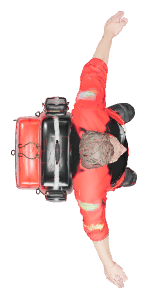
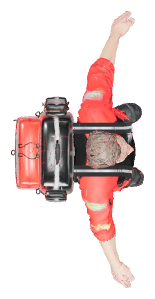
Models: the backpack's straps over the doctor's shoulders
The pack's own straps lie flat on its back panel, so the compose script
grows two of its own with --straps: black webbing with a reflective band,
up out of the pack, over each shoulder and down the chest, ending at the
lower ribs. The path is found on the person by casting rays at his mesh
round the shoulder and down the front, so the straps lie on the body. The
pack also sits 3 cm further back, off his shoulder blades. Sprite
re-rendered.

Claude-Session: https://claude.ai/code/session_013iwZva4Kut6Ah5PPacWNfi

diff --git a/src/app/dashboard/vector/scene/model-sprites.ts b/src/app/dashboard/vector/scene/model-sprites.ts
@@ -10,7 +10,7 @@ export const MODEL_SPRITES = {
   firefighter_run: { href: "/models/firefighter_run.png", w: 1.281, h: 0.803, frames: 16, fps: 24, cols: 16 }, // 
   firefighter_stand: { href: "/models/firefighter_stand.png", w: 1.036, h: 0.725, frames: 1, fps: 0.96, cols: 1 }, // 
   firefighter_walk: { href: "/models/firefighter_walk.png", w: 1.108, h: 0.788, frames: 20, fps: 19.2, cols: 20 }, // 
-  hems_doctor: { href: "/models/hems_doctor.png", w: 0.673, h: 1.357 }, // A HEMS doctor (Meshy) standing with the medical backpack on, arms a little out: faces +x, the pack behind.
+  hems_doctor: { href: "/models/hems_doctor.png", w: 0.703, h: 1.357 }, // A HEMS doctor (Meshy) standing with the medical backpack on, arms a little out: faces +x, the pack behind.
   spreaders: { href: "/models/spreaders.png", w: 1.009, h: 0.393 }, // 
 } satisfies Record<string, ModelSprite>;
 

diff --git a/assets/models/README.md b/assets/models/README.md
@@ -34,7 +34,7 @@ metre space, so a model only needs to be the right size.
 | --- | --- | --- |
 | `hydraulic-spreaders.glb` | `spreaders` | Hydraulic rescue spreaders on the RTC stage's salvage sheet and at the door. |
 | `hydraulic-cutters.glb` (to come) | `cutters` | The rescue cutters. The RTC stage draws them until the model lands; a `cutters` row in `MODELS` with the blades turned to +x, rendered, replaces the drawing with no other change. |
-| `hems-doctor.glb` | `hems_doctor` | A HEMS doctor with the emergency medical backpack on his back — two Meshy exports put together by a script (the person scaled to 1.78 m with his feet at the origin, the pack turned straps-in and set on the shoulder blades), the pack's yellow straps, handle and loops recoloured black in its texture first, textures at 1K WebP. Standing in an A-pose; faces +x once drawn, the pack behind him. |
+| `hems-doctor.glb` | `hems_doctor` | A HEMS doctor with the emergency medical backpack on his back — two Meshy exports put together by a script (the person scaled to 1.78 m with his feet at the origin, the pack turned straps-in and set on the shoulder blades), the pack's yellow straps, handle and loops recoloured black in its texture first, shoulder straps generated over his shoulders and down his chest), textures at 1K WebP. Standing in an A-pose; faces +x once drawn, the pack behind him. |
 | `firefighter.glb` | `firefighter_run`, `firefighter_walk`, `firefighter_stand` | A firefighter with a Mixamo rig and two clips, `Running` and `Walking`, each rendered as a sheet of frames, and one pose of the walk with the feet together as the standing figure. The crews run in with it when a job starts, walk between jobs and back to the appliance, stand by it, and go to the kit and back on the ground view. |
 
 ## Putting two together
@@ -47,11 +47,14 @@ z towards the base's front). Textures come out at 1K WebP. The HEMS doctor:
 
 ```
 node scripts/compose-models.mjs doctor.glb backpack.glb assets/models/hems-doctor.glb \
-     --height 1.78 --part-height 0.55 --part-yaw 180 --part-at 0,1.21,-0.25 --names doctor,backpack
+     --height 1.78 --part-height 0.55 --part-yaw 180 --part-at 0,1.21,-0.28 --names doctor,backpack --straps
 ```
 
 Meshy models face +z, so a backpack whose straps are on its -z side goes
-on at a yaw of 180 with a negative z.
+on at a yaw of 180 with a negative z. `--straps` adds two black webbing
+straps with a reflective band, up out of the pack, over the shoulders and
+down the chest: their path is found by casting rays at the person's mesh
+round each shoulder and down the front, so they lie on the body.
 
 ## Animations
 
